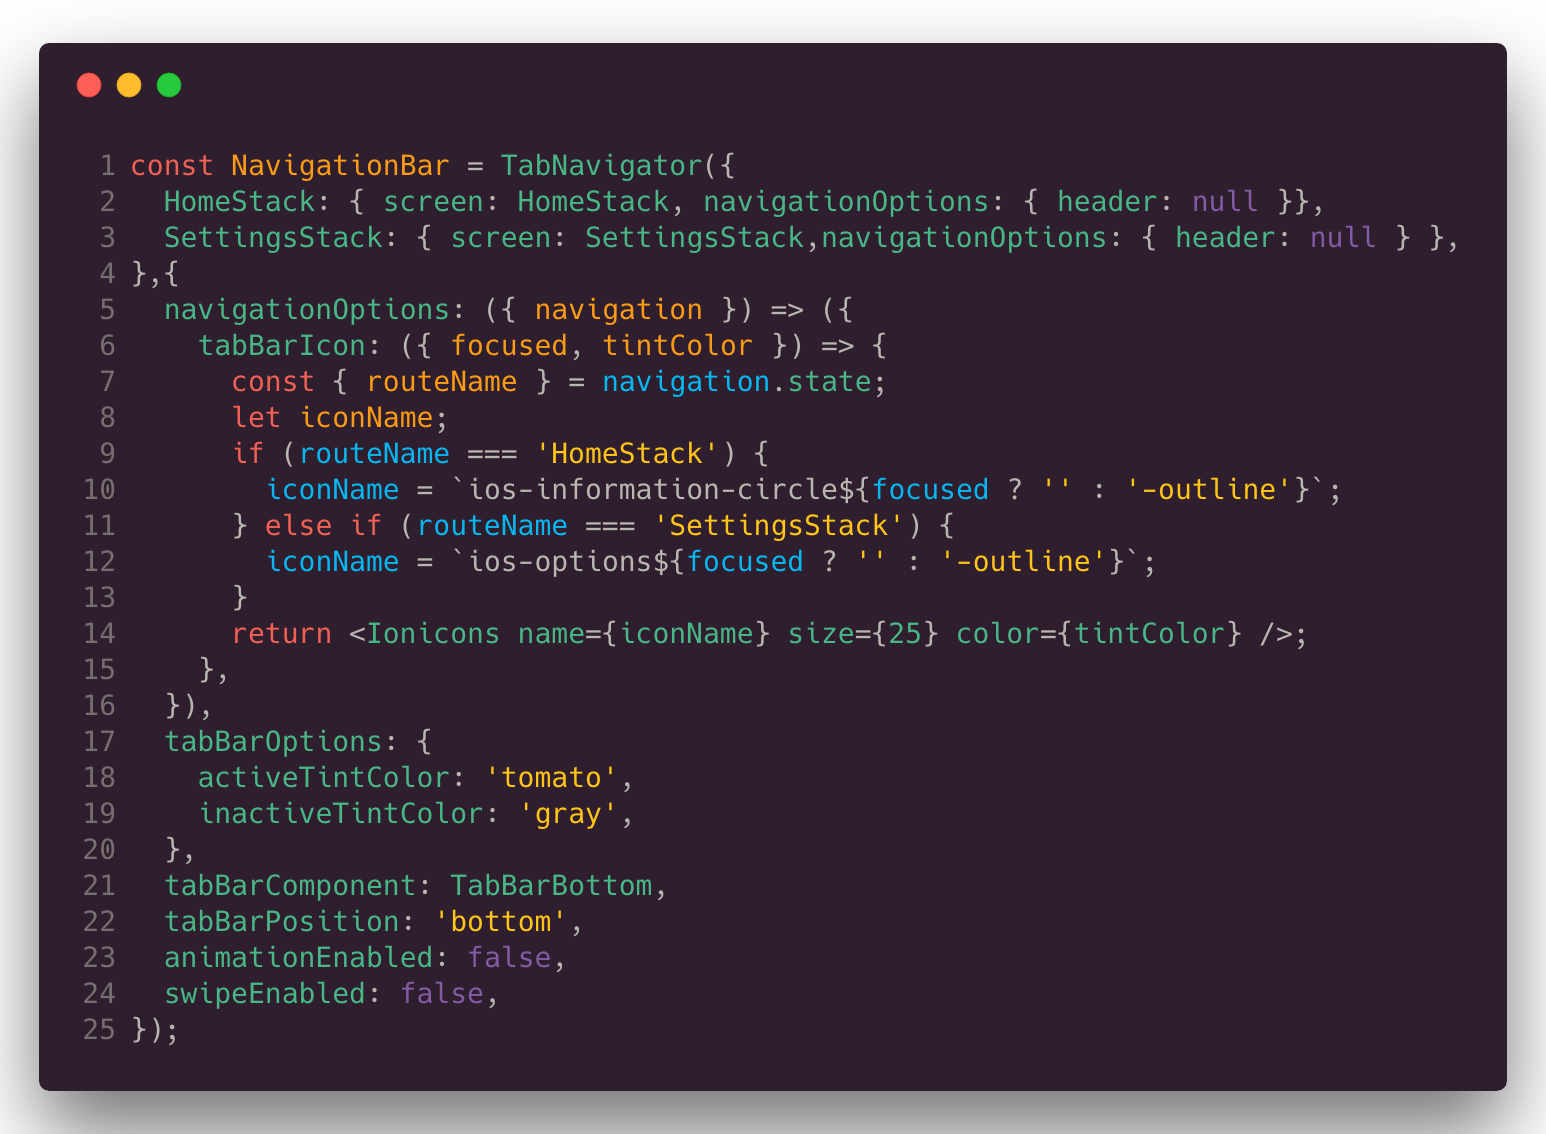
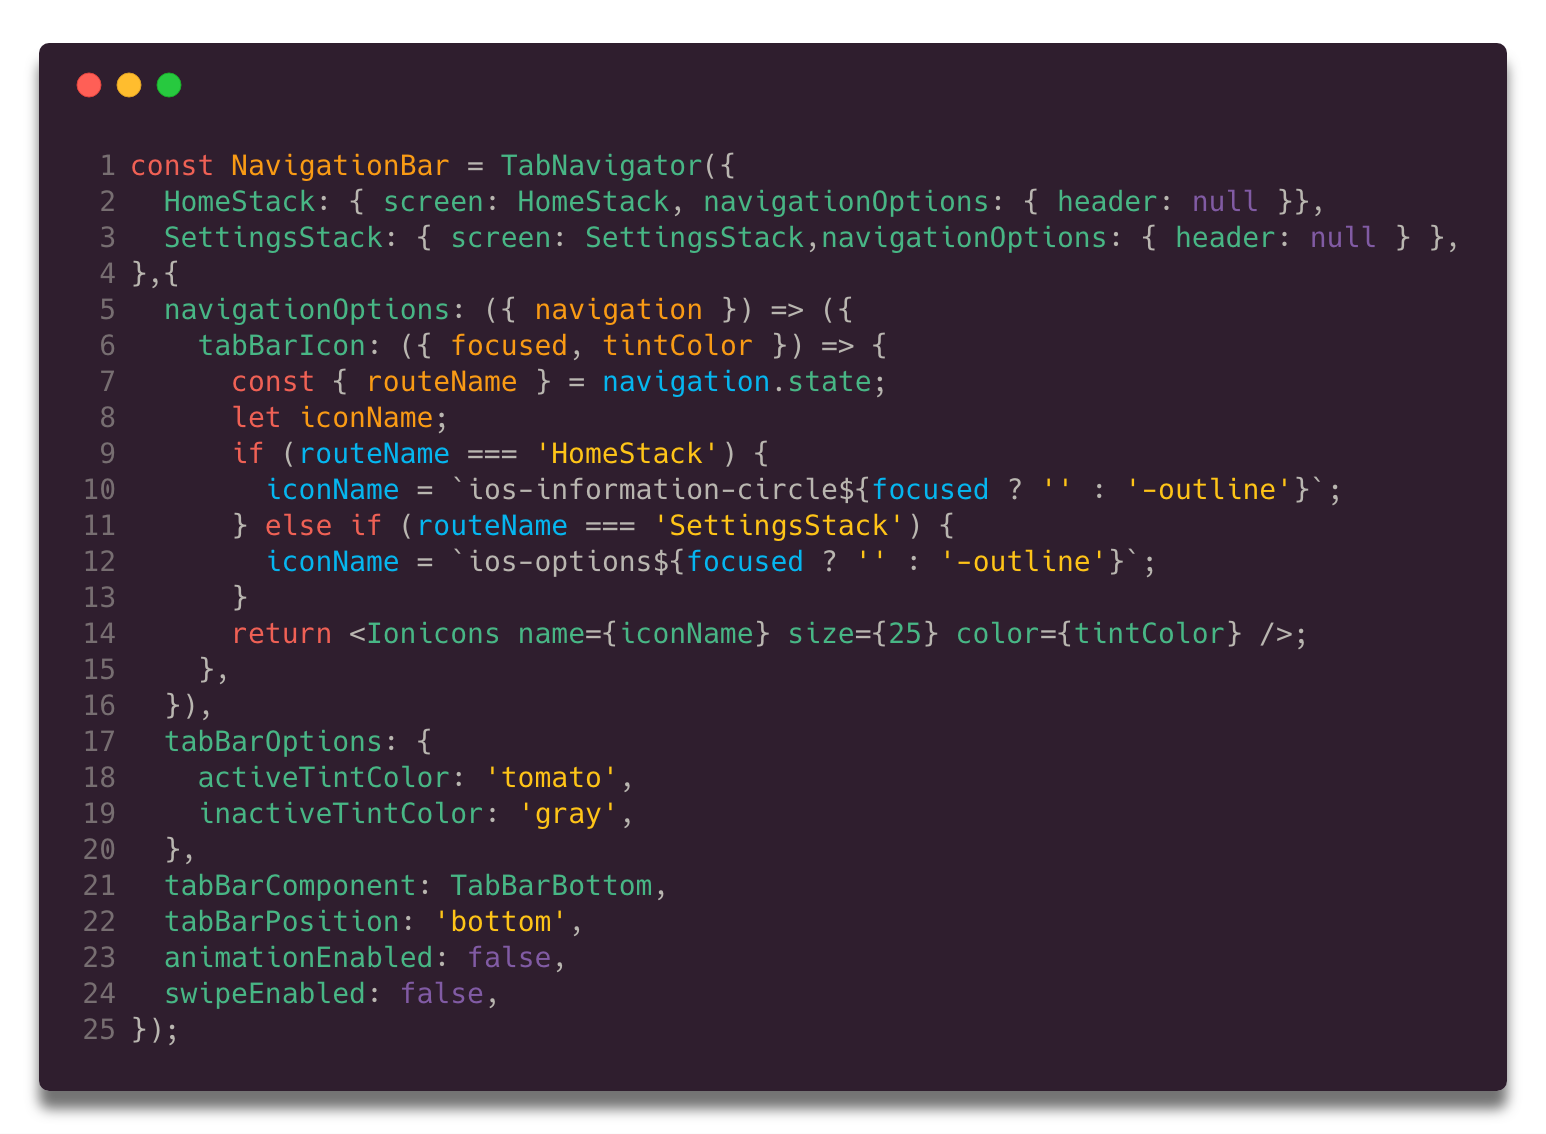
UPDATE README

Changed region(s): [[0.0, 0.0617, 1.0, 1.0]]

diff --git a/README.md b/README.md
@@ -1,3 +1,3 @@
 ### react-navigation and react-navigation-redux-helpers
 
-<img src="./assets/tab-navigator.png" width="200"/>
+<img src="./assets/tab-navigator.png"/>
